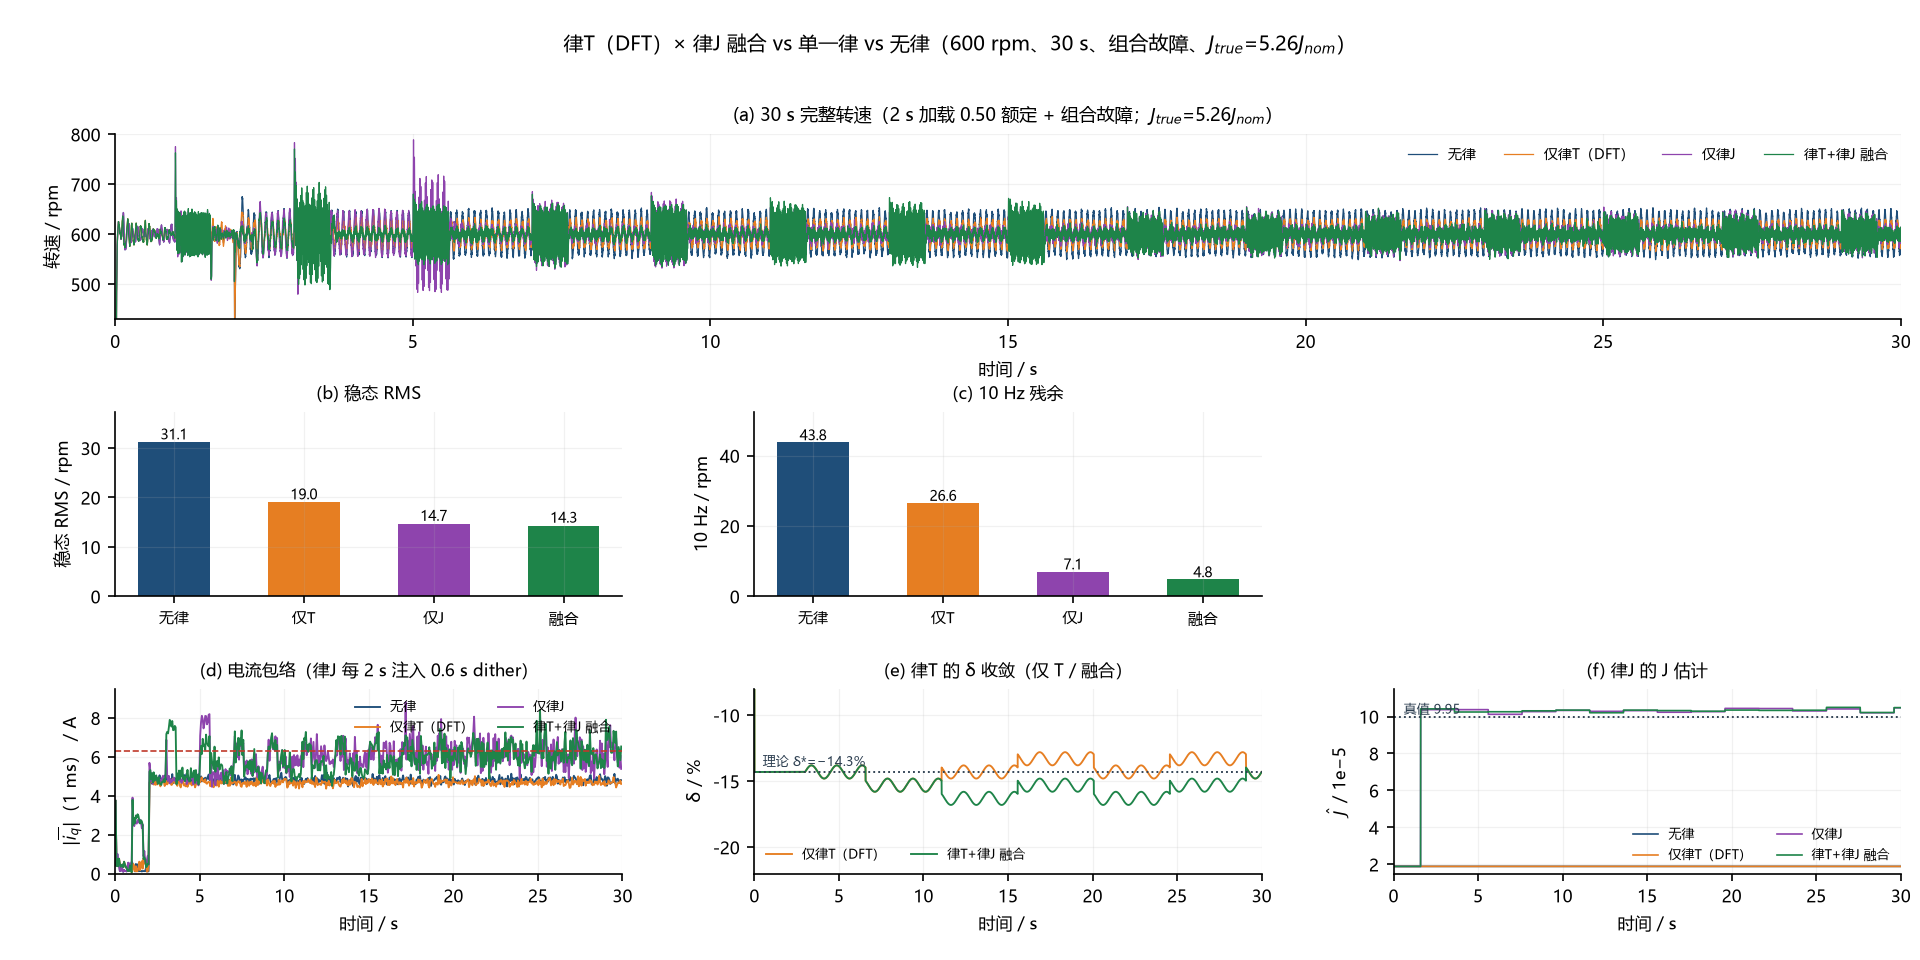
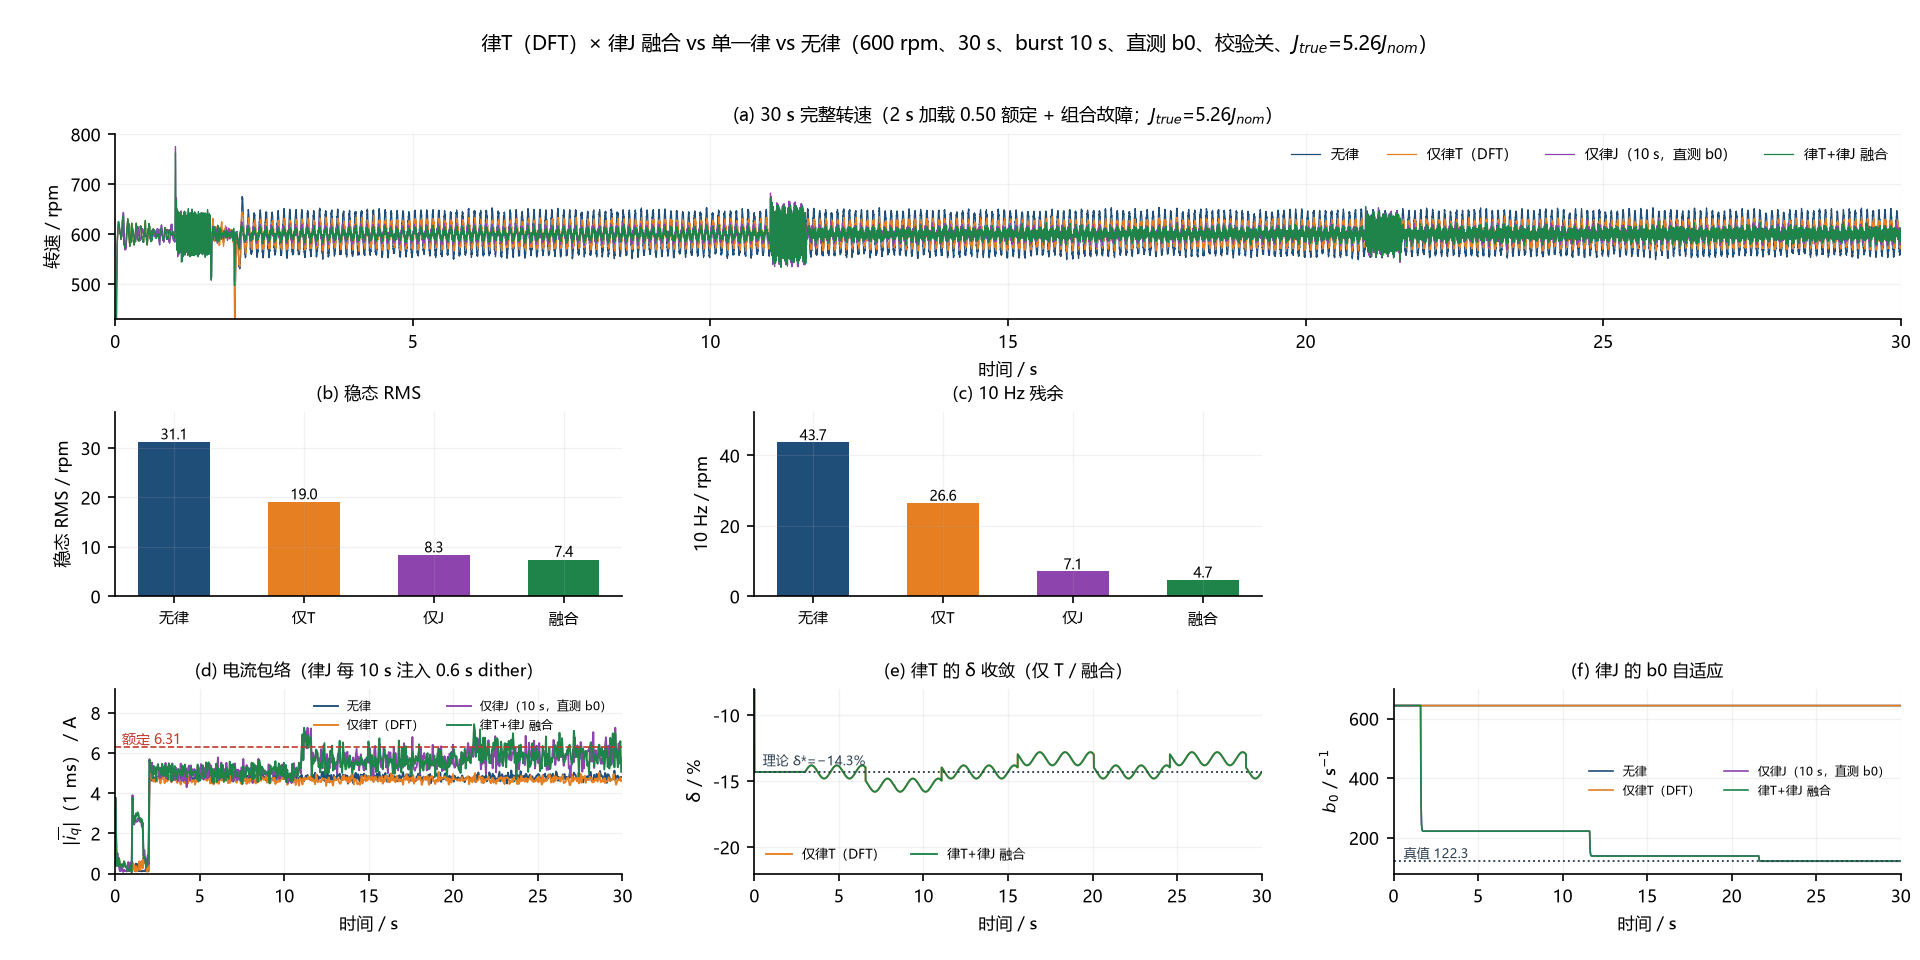
feat(law-j): 定稿 burst 10 s + 直测 b0 + 校验默认关；重出四模式融合图（融合 7.4 rpm / 10Hz 4.7）

diff --git a/_plot_tj_fusion2.py b/_plot_tj_fusion2.py
@@ -1,0 +1,103 @@
+# -*- coding: utf-8 -*-
+"""_plot_tj_fusion2.py —— 新配置（10 s burst、直测 b0、校验关）：四模式对比，六面板。"""
+import numpy as np, json
+import matplotlib
+matplotlib.use("Agg")
+import matplotlib.pyplot as plt
+
+C = {"base10": "#1f4e79", "t10": "#e67e22", "j10d": "#8e44ad", "f10d": "#1e8449"}
+LAB = {"base10": "无律", "t10": "仅律T（DFT）", "j10d": "仅律J（10 s，直测 b0）", "f10d": "律T+律J 融合"}
+Q = ["base10", "t10", "j10d", "f10d"]
+
+plt.rcParams.update({
+    "font.sans-serif": ["Microsoft YaHei", "SimHei", "DejaVu Sans"],
+    "axes.unicode_minus": False, "font.size": 8.4, "figure.dpi": 150,
+    "axes.grid": True, "grid.alpha": 0.17, "grid.linewidth": 0.6,
+    "axes.spines.top": False, "axes.spines.right": False,
+    "legend.frameon": False, "legend.fontsize": 7.2,
+})
+
+def load(f):
+    z = np.load(f)
+    t = np.asarray(z["t"]); dec = max(1, int(round(1e-3 / (t[1] - t[0]))))
+    return dict(t=t[::dec], y=np.asarray(z["y"])[::dec], iq=np.asarray(z["iq"])[::dec],
+                b0=np.asarray(z["b0e"]), t_j=np.asarray(z["t_j"]))
+
+def amp10(t, e, f=10.0, a=None, b=None):
+    m = (t >= a) & (t < b)
+    tt, ee = t[m], e[m]; w = 2 * np.pi * f
+    return float(np.hypot(2 * np.mean(ee * np.cos(w * tt)), 2 * np.mean(ee * np.sin(w * tt))))
+
+D = {k: load("_tj_%s.npz" % k) for k in Q}
+J = {k: json.load(open("_tj_%s.json" % k)) for k in Q}
+
+fig = plt.figure(figsize=(12.8, 6.4))
+gs = fig.add_gridspec(3, 3, left=0.06, right=0.99, top=0.86, bottom=0.09, wspace=0.26, hspace=0.50)
+a1 = fig.add_subplot(gs[0, :]); a2 = fig.add_subplot(gs[1, 0]); a3 = fig.add_subplot(gs[1, 1])
+a4 = fig.add_subplot(gs[2, 0]); a5 = fig.add_subplot(gs[2, 1]); a6 = fig.add_subplot(gs[2, 2])
+
+E = {}
+for k in Q:
+    d = D[k]; E[k] = (d["y"] - 1.0) * 600.0
+    a1.plot(d["t"], 600 + E[k], color=C[k], lw=0.6, label=LAB[k])
+a1.set_xlim(0, 30); a1.set_ylim(430, 800)
+a1.set_xlabel("时间 / s"); a1.set_ylabel("转速 / rpm")
+a1.set_title("(a) 30 s 完整转速（2 s 加载 0.50 额定 + 组合故障；$J_{true}$=5.26$J_{nom}$）", fontsize=8.6)
+a1.legend(fontsize=6.8, ncol=4, loc="upper right")
+
+rms = [J[k]["rms"] for k in Q]; a10 = [J[k]["amp10"] for k in Q]
+x = np.arange(4); cols = [C[k] for k in Q]
+a2.bar(x, rms, color=cols, width=0.55)
+for i, v in enumerate(rms):
+    a2.text(i, v + 0.6, "%.1f" % v, ha="center", fontsize=6.8)
+a2.set_xticks(x); a2.set_xticklabels(["无律", "仅T", "仅J", "融合"], fontsize=7.2)
+a2.set_ylim(0, max(rms) * 1.2); a2.set_ylabel("稳态 RMS / rpm")
+a2.set_title("(b) 稳态 RMS", fontsize=8.4)
+
+a3.bar(x, a10, color=cols, width=0.55)
+for i, v in enumerate(a10):
+    a3.text(i, v + 0.6, "%.1f" % v, ha="center", fontsize=6.8)
+a3.set_xticks(x); a3.set_xticklabels(["无律", "仅T", "仅J", "融合"], fontsize=7.2)
+a3.set_ylim(0, max(a10) * 1.2); a3.set_ylabel("10 Hz / rpm")
+a3.set_title("(c) 10 Hz 残余", fontsize=8.4)
+
+n1 = int(round(1e-3 / (D["base10"]["t"][1] - D["base10"]["t"][0])))
+for k in Q:
+    d = D[k]; a = np.abs(d["iq"])
+    av = a[:len(a)//n1*n1].reshape(-1, n1).mean(axis=1)
+    nb = 50
+    av2 = np.array([av[i:i+nb].max() for i in range(0, len(av)-nb, nb)])
+    tt = d["t"][:len(av2)*nb*n1:nb*n1] + 25e-3
+    a4.plot(tt, av2, color=C[k], lw=0.9, label=LAB[k])
+a4.axhline(6.31, color="#c0392b", ls="--", lw=0.8)
+a4.text(0.4, 6.45, "额定 6.31", color="#c0392b", fontsize=6.6)
+a4.set_xlim(0, 30); a4.set_ylim(0, 9.2)
+a4.set_ylabel("$|\\overline{i_q}|$（1 ms） / A"); a4.set_xlabel("时间 / s")
+a4.set_title("(d) 电流包络（律J 每 10 s 注入 0.6 s dither）", fontsize=8.4)
+a4.legend(fontsize=5.6, ncol=2, loc="upper right")
+
+for k in ("t10", "f10d"):
+    d = D[k]
+    a5.plot(d["t"], np.asarray(np.load("_tj_%s.npz" % k)["es"])[::100] * 100.0, color=C[k], lw=0.9, label=LAB[k])
+a5.axhline(-14.3, color="#2c3e50", ls=":", lw=0.9)
+a5.text(0.5, -14.05, "理论 δ*=−14.3%", fontsize=6.2, color="#2c3e50", va="bottom")
+a5.set_xlim(0, 30); a5.set_ylim(-22, -8); a5.set_ylabel("δ / %"); a5.set_xlabel("时间 / s")
+a5.set_title("(e) 律T 的 δ 收敛（仅 T / 融合）", fontsize=8.4)
+a5.legend(fontsize=6.2, ncol=2, loc="lower left")
+
+for k in Q:
+    d = D[k]
+    a6.plot(d["t_j"], d["b0"], color=C[k], lw=0.8, label=LAB[k])
+a6.axhline(122.3, color="#2c3e50", ls=":", lw=0.9)
+a6.text(0.6, 132, "真值 122.3", fontsize=6.2, color="#2c3e50")
+a6.set_xlim(0, 30); a6.set_ylim(80, 700)
+a6.set_ylabel("$b_0$ / s$^{-1}$"); a6.set_xlabel("时间 / s")
+a6.set_title("(f) 律J 的 b0 自适应", fontsize=8.4)
+a6.legend(fontsize=5.8, ncol=2, loc="center right")
+
+fig.suptitle("律T（DFT）× 律J 融合 vs 单一律 vs 无律（600 rpm、30 s、burst 10 s、直测 b0、校验关、$J_{true}$=5.26$J_{nom}$）",
+             fontsize=9.4, y=0.965)
+fig.savefig("fig_tj_fusion.png", dpi=150, bbox_inches=None, facecolor="white")
+print("RMS ", dict(zip(Q, [round(v, 2) for v in rms])))
+print("10Hz", dict(zip(Q, [round(v, 2) for v in a10])))
+print("b0  ", dict(zip(Q, [round(J[k]['b0e'], 1) for k in Q])))

diff --git a/pmsm_inv_sim.py b/pmsm_inv_sim.py
@@ -169,7 +169,7 @@ def sim_inv(t, TL, cfg=None):
     _jrec_fd_o = []
     _jrec_abort_o = []
     # 每 burst 状态4校验：0.6 s 环形窗（基线与后窗），2 s 周期内完成
-    _jrec_val_on = bool(cfg.get("j_validate", True))   # False：关闭状态4 的 burst 后校验（不回退）
+    _jrec_val_on = bool(cfg.get("j_validate", False))  # 默认关闭状态4 的 burst 后校验（不回退）；b0 慢变，周期自检无需频繁
     _jrec_val_log = []      # 状态4 校验日志：(t, iq比, 幅值比, bad_iq, bad_a)
     _jrec_ring_n = 600
     _jrec_iq_ring = np.zeros(_jrec_ring_n)

diff --git a/_tj_recompute.py b/_tj_recompute.py
@@ -1,9 +1,9 @@
 # -*- coding: utf-8 -*-
-"""_tj_recompute.py —— 指标重算（含校验开关）。"""
+"""_tj_recompute.py —— 指标重算（新配置：10 s burst、直测 b0、校验关）。"""
 import numpy as np, json
 
 TAGS = ("base","t","j","fusion","j10","fusion10","jd2","jd10","fd2","fd10","o2","o10","d2","d10",
-        "d2n","d10n","o2n","o10n")
+        "d2n","d10n","o2n","o10n","base10","t10","j10d","f10d")
 for tag in TAGS:
     try:
         z = np.load("_tj_%s.npz" % tag)

diff --git a/交接_2026-11-14.md b/交接_2026-11-14.md
@@ -325,3 +325,33 @@ fd  = clip((q+0.35)*n/60, fmin, fmax)
 - 代码：pmsm_inv_sim.py（j_validate、_jrec_val_log 校验日志）；run_tj_fusion.py 第 6 参数 validate。
 - 图：fig_b0_noval.png / _plot_b0_noval.py（(a) b0 开/关×2/10 s、(b) 稳态 10 Hz、(c) RMS/10 Hz 柱、(d) 末态 b0）。
 - 数据：_tj_{d2,d2n,d10,d10n,o2n,o10n}.npz。
+## 14. 2026-11-15 定稿：burst 10 s + 直测 b0 + 校验默认关
+
+### 14.1 定稿配置
+
+- `j_recheck_period = 10 s`：b0 变化缓慢，周期自检无需频繁；实际工程可放宽到 ~30 s。
+- `j_b0_direct = True`：burst 内直接测 b0（用实测 A_iq），不经 J。
+- `j_validate = False`（**已改为默认**）：状态 4 关闭，burst 后不再回退（§13 已证明它会误杀正确更新）。
+- `j_recheck_t0 = 1 s`：30 s 内 3 次 burst（1 / 11 / 21 s）。
+
+### 14.2 四模式结果（600 rpm、30 s、组合故障、J=5.26 J_nom）
+
+| 模式 | RMS/rpm | 10 Hz/rpm | iq1ms/A | b0 末值（误差） |
+|---|---|---|---|---|
+| 无律 | 31.14 | 43.71 | 5.01 | 643.7 |
+| 仅律T（DFT） | 19.01 | 26.56 | 5.11 | 643.7 |
+| 仅律J（10 s，直测 b0） | 8.28 | 7.07 | 7.01 | 121.4（−0.8%） |
+| **融合** | **7.40** | **4.73** | 6.86 | **122.5（+0.1%）** |
+
+### 14.3 结论
+
+1. 融合相对无律：**RMS −76%（31.1→7.4）、10 Hz −89%（43.7→4.7）**。
+2. 与 2 s 档（融合 14.29 / 4.82 / 7.71）比：**RMS 减半（7.40）、10 Hz 持平（4.73）、iq1ms 从 7.71 降到 6.86**——burst 少，扰动和电流代价都降，是净赢。
+3. b0 两次 burst 就到位：1.6 s 643.7→225，11.6 s→121（真值 122.3）。
+4. 遗留：iq1ms 6.86 仍略高于额定 6.31（burst 内电流瞬态），要压进额定需限幅、缩短 burst 长度或降 dither 幅值。
+
+### 14.4 文件
+
+- 图：fig_tj_fusion.png（新配置版，六面板，f 面板画 b0）、_plot_tj_fusion2.py。
+- 数据：_tj_{base10,t10,j10d,f10d}.npz；_tj_recompute.py 重算指标。
+- 代码：pmsm_inv_sim.py 的 j_validate 默认改 False。
